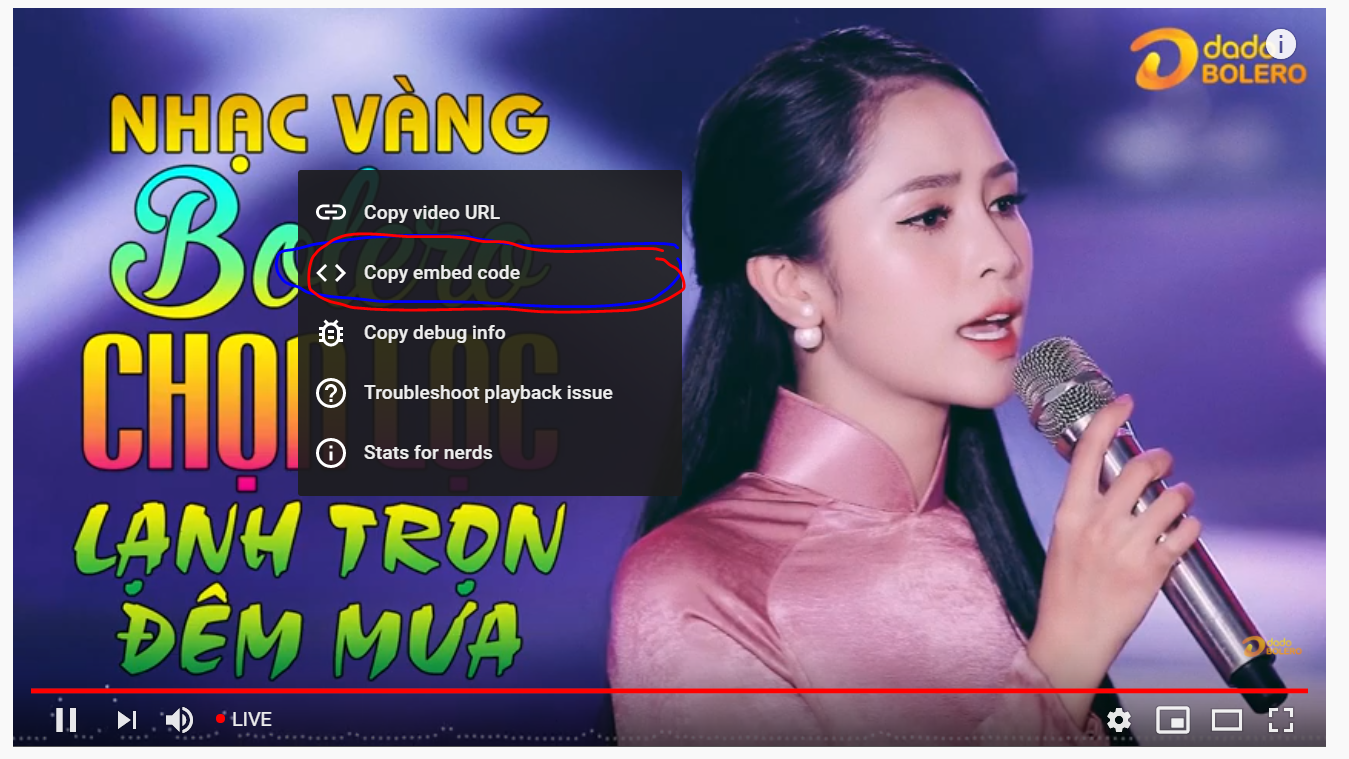
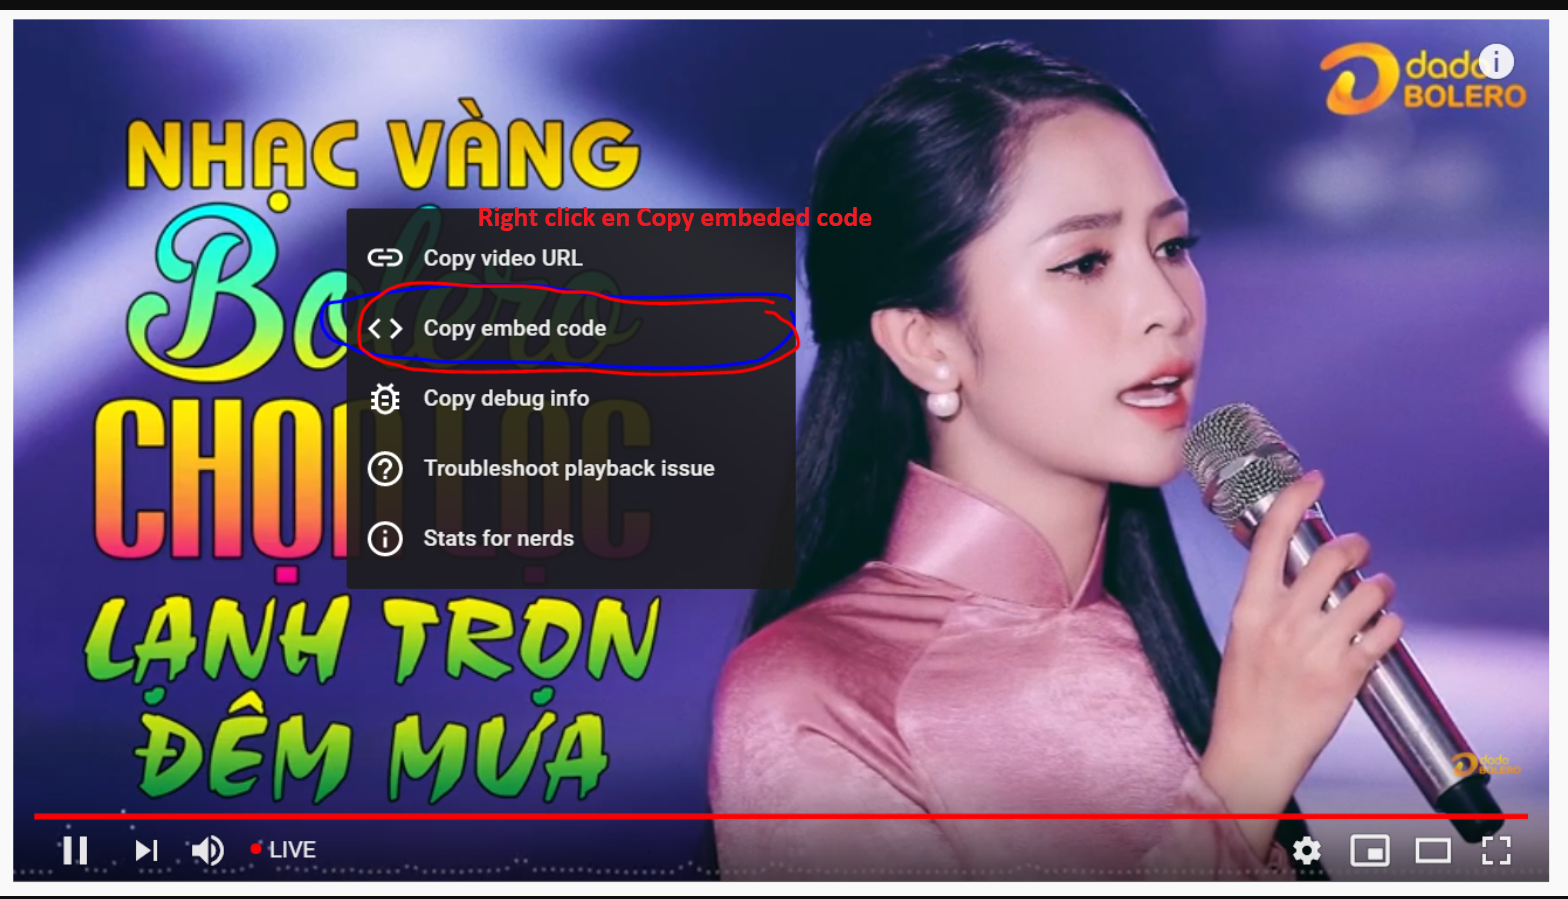
image guide to copy youtube embed code

diff --git a/sse_simple/resources/views/channel/admin.blade.php b/sse_simple/resources/views/channel/admin.blade.php
@@ -56,8 +56,8 @@
             <a href="/channel/broadcast?c={{$data->channelName}}" target="_blank"> Link to invite</a>
         </h1>
         <div><label>channelName:<br><input name='channelName' value="{{$data->channelName}}"></label></div>
-        <div>Youtube embeded live stream:
-            <a href='/uploads/public/copy_embeded_youtube.PNG' target="_blank">Right click and copy, check image</a><br>
+        <div>Youtube embeded code of live stream:
+            <a href='/uploads/public/copy_embeded_youtube.PNG' target="_blank">How to get embeded code, check image</a><br>
             <textarea style="min-width:900px" name='embeded'>{!!$data->embeded!!}</textarea>
         </div>
         <div>

diff --git a/sse_simple/app/Http/Controllers/ChannelController.php b/sse_simple/app/Http/Controllers/ChannelController.php
@@ -22,7 +22,7 @@ class ChannelController extends Controller
     }
     function getChannelName($channelName)
     {
-        if (empty($channelName)) return 'default';
+        if (empty($channelName)) return 'Ý Linh idol';
         return $channelName;
     }
     function defaultChannelData($channelName)
